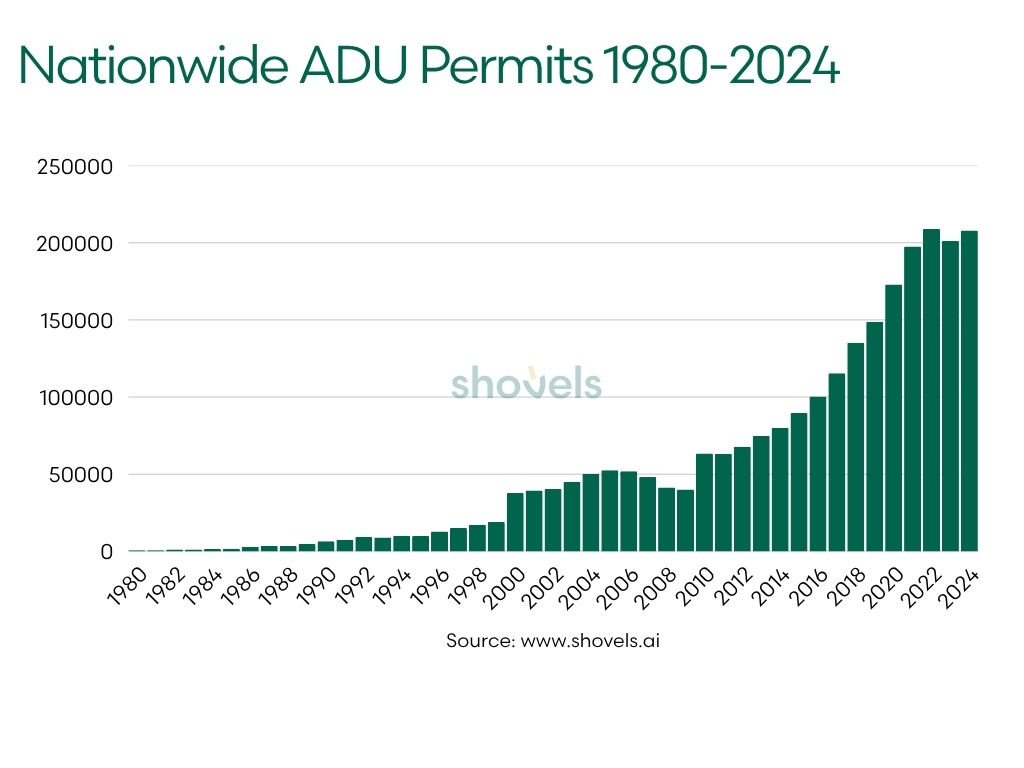
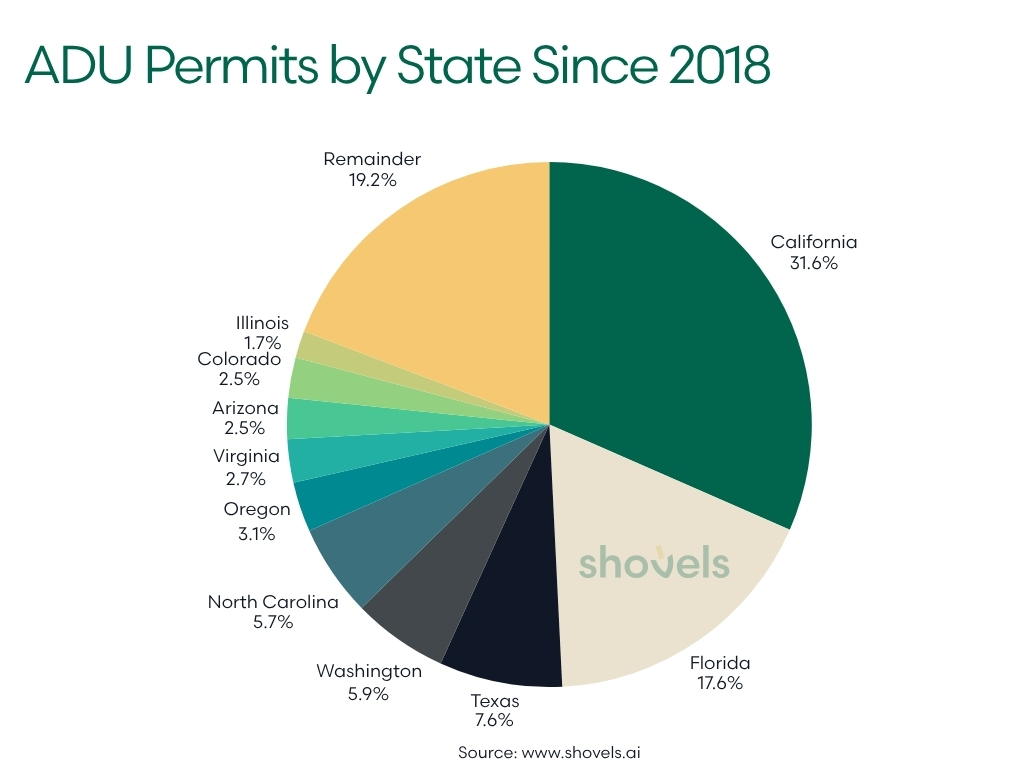
Research: swap UC1 chart; add Data-category resources fallback
Replace UC1's image with the ADU-permits-by-state pie chart and
update its alt text.

Add an optional fallback_category to get_industry_articles: after the
tag2 and tags tiers, it can prefer a named category before the
generic most-recent tier. The Research page uses
fallback_category='Data' so "Explore the research" pulls data-report
posts (Category: Data) instead of whatever's newest, since there's no
Research tag2 yet. COMPONENTS.md updated.

diff --git a/pelicanconf.py b/pelicanconf.py
@@ -183,15 +183,19 @@ _posts_cache = _scan_all_posts()
 _FALLBACK_EXCLUDED_CATEGORIES = {'newsletter', 'podcast'}
 
 
-def get_industry_articles(tag, limit=3):
+def get_industry_articles(tag, limit=3, fallback_category=None):
     """Return up to `limit` recent blog posts for an industry tag.
 
-    Three filter tiers, each filling remaining slots without duplicates:
+    Filter tiers, each filling remaining slots without duplicates:
 
       1. Posts whose `tag2` frontmatter exactly matches `tag`.
       2. Posts whose comma-separated `tags` list contains `tag`
          (case-insensitive substring match).
-      3. Most-recent topical posts overall, excluding categories like
+      3. If `fallback_category` is given, posts in that category
+         (most recent first) — e.g. a Research page that prefers its
+         own tags but defaults to the `Data` category before going
+         fully generic.
+      4. Most-recent topical posts overall, excluding categories like
          Newsletter and Podcast (see _FALLBACK_EXCLUDED_CATEGORIES).
          Graceful fallback for industries without tagged coverage yet.
 
@@ -236,7 +240,16 @@ def get_industry_articles(tag, limit=3):
             if any(tag_lower in t for t in tags):
                 _add(m)
 
-    # Tier 3: most-recent topical fallback (newsletters/podcasts excluded).
+    # Tier 3: preferred fallback category (most recent first).
+    if fallback_category and len(out) < limit:
+        fc = fallback_category.lower()
+        for m in _posts_cache:
+            if len(out) >= limit:
+                break
+            if m.get('category', '').lower() == fc:
+                _add(m)
+
+    # Tier 4: most-recent topical fallback (newsletters/podcasts excluded).
     for m in _posts_cache:
         if len(out) >= limit:
             break

diff --git a/COMPONENTS.md b/COMPONENTS.md
@@ -923,18 +923,24 @@ are confirmed before launch — same swap process and gate as
 
 ## Build helpers (`pelicanconf.py`)
 
-### `get_industry_articles(tag, limit=3)` helper
+### `get_industry_articles(tag, limit=3, fallback_category=None)` helper
 
 **Location**: defined in `pelicanconf.py`, exposed to all content
 pages and templates via `JINJA_GLOBALS`.
 
-Returns up to `limit` blog posts for an industry, with three filter
-tiers that fill remaining slots without duplicates:
+Returns up to `limit` blog posts for an industry, with filter tiers
+that fill remaining slots without duplicates:
 
 1. **Tier 1** — posts whose `tag2` frontmatter exactly matches `tag`.
 2. **Tier 2** — posts whose `tags` list contains `tag`
    (case-insensitive substring).
-3. **Tier 3** — most-recent topical posts overall. Excludes the
+3. **Tier 3** *(optional)* — if `fallback_category` is passed, posts
+   in that category (most recent first), before going fully generic.
+   Example: the Research page calls
+   `get_industry_articles('Research', fallback_category='Data')` so it
+   prefers Research-tagged posts but defaults to the data-report
+   backlog (`Category: Data`) rather than whatever's newest.
+4. **Tier 4** — most-recent topical posts overall. Excludes the
    `Newsletter` and `Podcast` categories so they don't crowd out
    industry-relevant content on pages that don't yet have a deep
    tagged backlog. If you want a newsletter to appear, give it an

diff --git a/content/pages/research-preview.md b/content/pages/research-preview.md
@@ -46,7 +46,7 @@ status: hidden
             'Drill down from national trends to individual jurisdictions and addresses',
         ],
         'image_src': '/images/industries/research/uc1-housing-production.jpg',
-        'image_alt': 'Chart from the Shovels ADU report — housing and ADU permit production by year',
+        'image_alt': 'Chart from the Shovels ADU report — ADU permits by state',
         'framed': False,
     },
     {
@@ -117,7 +117,7 @@ status: hidden
 {% include 'sections/coverage.html' %}
 
 {{ ui_res.resources_section(
-    articles=get_industry_articles('Research'),
+    articles=get_industry_articles('Research', fallback_category='Data'),
     heading='Explore the research') }}
 
 {{ ui_faq.faq_section(